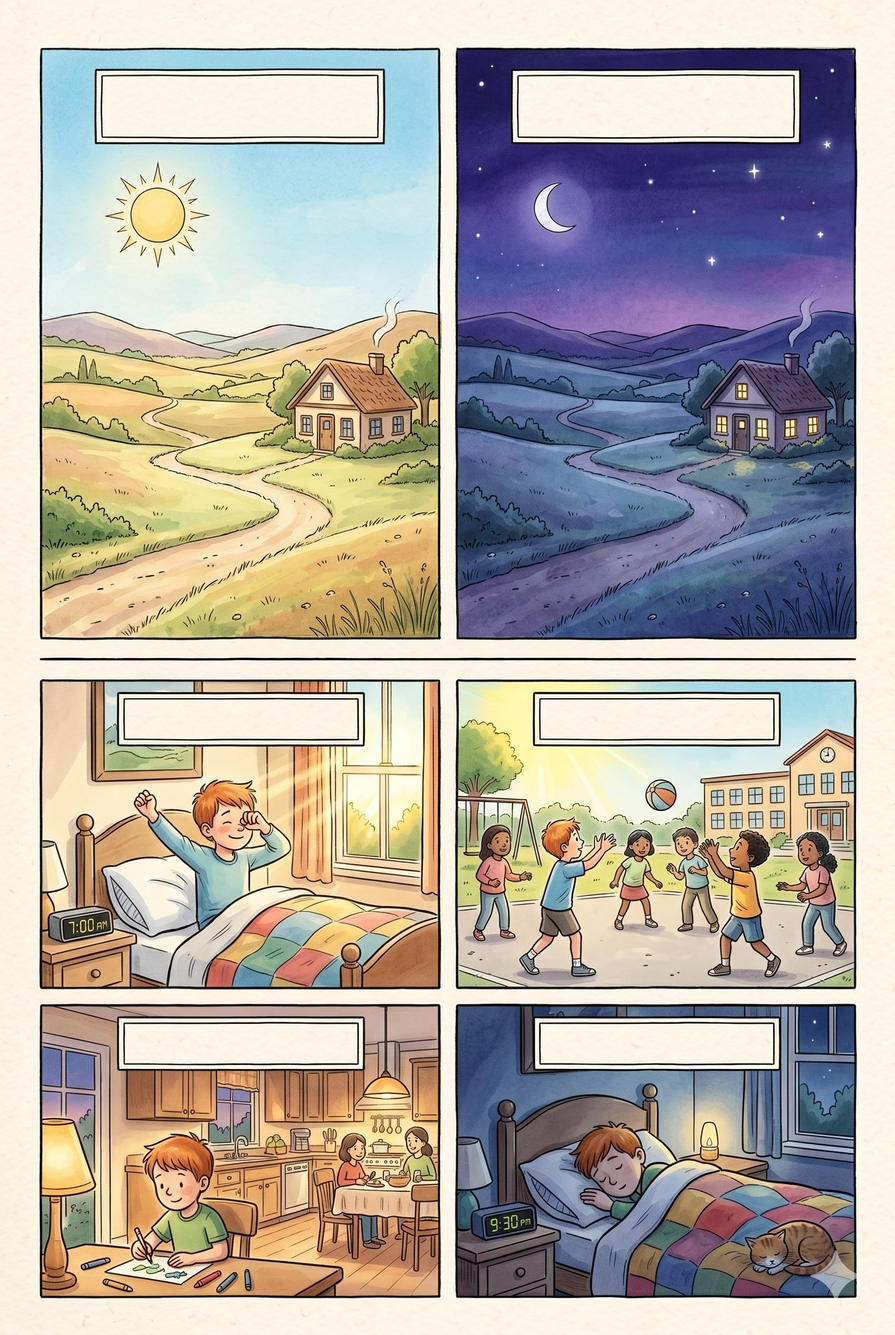
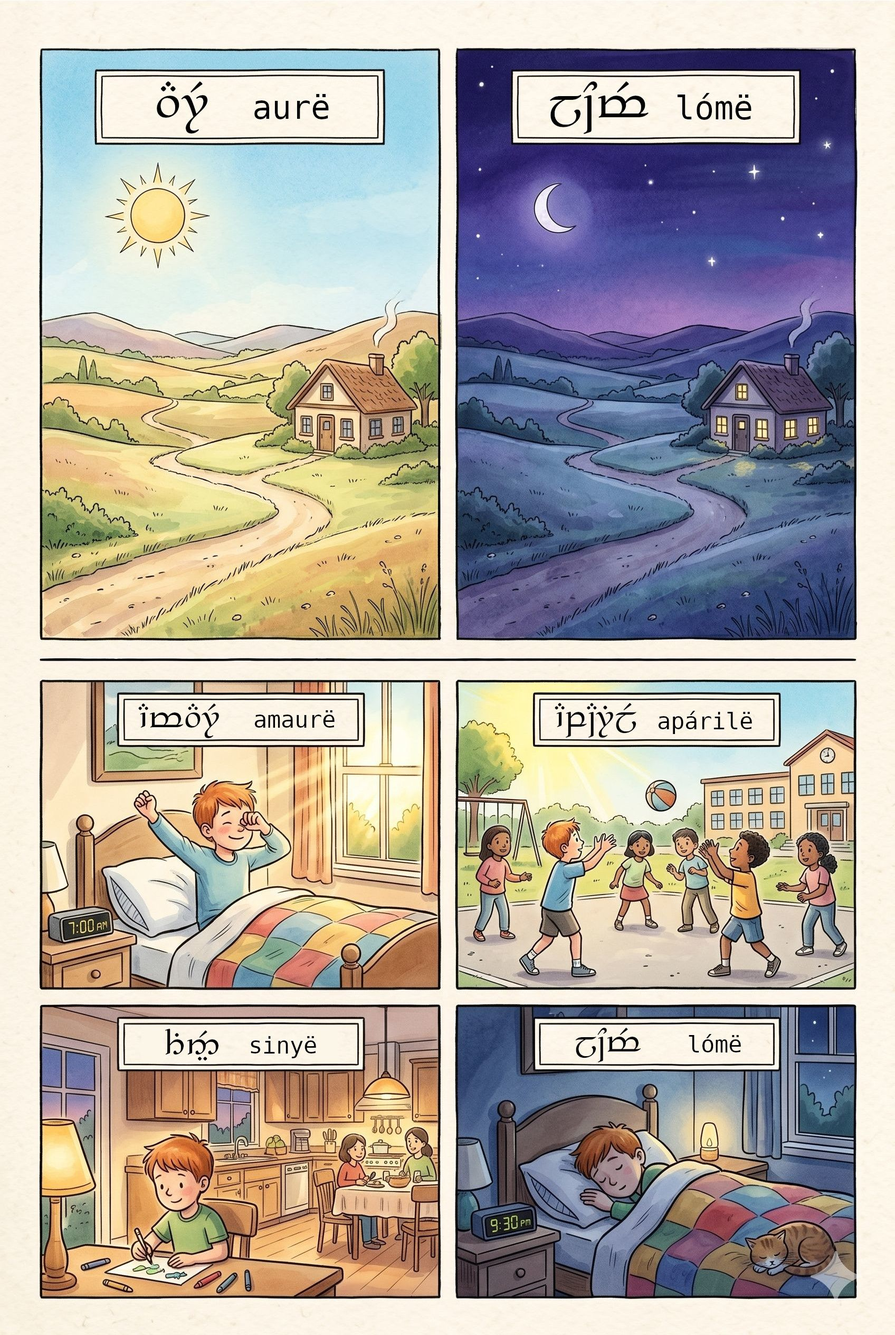
Deploy preview for PR 36 🛫

diff --git a/pr-preview/pr-36/index.html b/pr-preview/pr-36/index.html
@@ -106,7 +106,7 @@ ul.task-list li input[type="checkbox"] {
     <div class="sidebar-title mb-0 py-0">
       <a href="./">Ma Quetilye Quenya?</a> 
         <div class="sidebar-tools-main">
-    <a href="https://ma-quetelye-quenya.tolkien.lu/pt/" title="Português" class="quarto-navigation-tool px-1" aria-label="Português"><i class="bi bi-translate"></i></a>
+    <a href="https://ma-quetilye-quenya.tolkien.lu/pt/" title="Português" class="quarto-navigation-tool px-1" aria-label="Português"><i class="bi bi-translate"></i></a>
 </div>
     </div>
       </div>
@@ -233,14 +233,14 @@ ul.task-list li input[type="checkbox"] {
 
 
 <!--
-SPDX-FileCopyrightText: 2026 Bruno Pacheco (https://bruno.pacheco.lu|brunopacheco1@yahoo.com)
+SPDX-FileCopyrightText: 2026 Bruno Pacheco (https://bruno.pacheco.lu)
 
 SPDX-License-Identifier: CC-BY-4.0
 -->
 <section id="introduction" class="level1 unnumbered">
 <h1 class="unnumbered">Introduction</h1>
 <!--
-SPDX-FileCopyrightText: 2026 Bruno Pacheco (https://bruno.pacheco.lu|brunopacheco1@yahoo.com)
+SPDX-FileCopyrightText: 2026 Bruno Pacheco (https://bruno.pacheco.lu)
 
 SPDX-License-Identifier: CC-BY-4.0
 -->

diff --git a/pr-preview/pr-36/pt/index.html b/pr-preview/pr-36/pt/index.html
@@ -106,7 +106,7 @@ ul.task-list li input[type="checkbox"] {
     <div class="sidebar-title mb-0 py-0">
       <a href="./">Ma Quetilye Quenya?</a> 
         <div class="sidebar-tools-main">
-    <a href="https://ma-quetelye-quenya.tolkien.lu/" title="English" class="quarto-navigation-tool px-1" aria-label="English"><i class="bi bi-translate"></i></a>
+    <a href="https://ma-quetilye-quenya.tolkien.lu/" title="English" class="quarto-navigation-tool px-1" aria-label="English"><i class="bi bi-translate"></i></a>
 </div>
     </div>
       </div>
@@ -233,14 +233,14 @@ ul.task-list li input[type="checkbox"] {
 
 
 <!--
-SPDX-FileCopyrightText: 2026 Bruno Pacheco (https://bruno.pacheco.lu|brunopacheco1@yahoo.com)
+SPDX-FileCopyrightText: 2026 Bruno Pacheco (https://bruno.pacheco.lu)
 
 SPDX-License-Identifier: CC-BY-4.0
 -->
 <section id="introdução" class="level1 unnumbered">
 <h1 class="unnumbered">Introdução</h1>
 <!--
-SPDX-FileCopyrightText: 2026 Bruno Pacheco (https://bruno.pacheco.lu|brunopacheco1@yahoo.com)
+SPDX-FileCopyrightText: 2026 Bruno Pacheco (https://bruno.pacheco.lu)
 
 SPDX-License-Identifier: CC-BY-4.0
 -->

diff --git a/pr-preview/pr-36/docs/en/toc.html b/pr-preview/pr-36/docs/en/toc.html
@@ -105,7 +105,7 @@ ul.task-list li input[type="checkbox"] {
     <div class="sidebar-title mb-0 py-0">
       <a href="../../">Ma Quetilye Quenya?</a> 
         <div class="sidebar-tools-main">
-    <a href="https://ma-quetelye-quenya.tolkien.lu/pt/" title="Português" class="quarto-navigation-tool px-1" aria-label="Português"><i class="bi bi-translate"></i></a>
+    <a href="https://ma-quetilye-quenya.tolkien.lu/pt/" title="Português" class="quarto-navigation-tool px-1" aria-label="Português"><i class="bi bi-translate"></i></a>
 </div>
     </div>
       </div>
@@ -207,7 +207,7 @@ ul.task-list li input[type="checkbox"] {
 
 
 <!--
-SPDX-FileCopyrightText: 2026 Bruno Pacheco (https://bruno.pacheco.lu|brunopacheco1@yahoo.com)
+SPDX-FileCopyrightText: 2026 Bruno Pacheco (https://bruno.pacheco.lu)
 
 SPDX-License-Identifier: CC-BY-4.0
 -->

diff --git a/pr-preview/pr-36/docs/cariquettar.html b/pr-preview/pr-36/docs/cariquettar.html
@@ -104,7 +104,7 @@ ul.task-list li input[type="checkbox"] {
     <div class="sidebar-title mb-0 py-0">
       <a href="../">Ma Quetilye Quenya?</a> 
         <div class="sidebar-tools-main">
-    <a href="https://ma-quetelye-quenya.tolkien.lu/pt/" title="Português" class="quarto-navigation-tool px-1" aria-label="Português"><i class="bi bi-translate"></i></a>
+    <a href="https://ma-quetilye-quenya.tolkien.lu/pt/" title="Português" class="quarto-navigation-tool px-1" aria-label="Português"><i class="bi bi-translate"></i></a>
 </div>
     </div>
       </div>
@@ -206,7 +206,7 @@ ul.task-list li input[type="checkbox"] {
 
 
 <!--
-SPDX-FileCopyrightText: 2026 Bruno Pacheco (https://bruno.pacheco.lu|brunopacheco1@yahoo.com)
+SPDX-FileCopyrightText: 2026 Bruno Pacheco (https://bruno.pacheco.lu)
 
 SPDX-License-Identifier: CC-BY-4.0
 -->

diff --git a/pr-preview/pr-36/docs/parande_1.html b/pr-preview/pr-36/docs/parande_1.html
@@ -105,7 +105,7 @@ ul.task-list li input[type="checkbox"] {
     <div class="sidebar-title mb-0 py-0">
       <a href="../">Ma Quetilye Quenya?</a> 
         <div class="sidebar-tools-main">
-    <a href="https://ma-quetelye-quenya.tolkien.lu/pt/" title="Português" class="quarto-navigation-tool px-1" aria-label="Português"><i class="bi bi-translate"></i></a>
+    <a href="https://ma-quetilye-quenya.tolkien.lu/pt/" title="Português" class="quarto-navigation-tool px-1" aria-label="Português"><i class="bi bi-translate"></i></a>
 </div>
     </div>
       </div>
@@ -238,7 +238,7 @@ ul.task-list li input[type="checkbox"] {
 
 
 <!--
-SPDX-FileCopyrightText: 2026 Bruno Pacheco (https://bruno.pacheco.lu|brunopacheco1@yahoo.com)
+SPDX-FileCopyrightText: 2026 Bruno Pacheco (https://bruno.pacheco.lu)
 
 SPDX-License-Identifier: CC-BY-4.0
 -->

diff --git a/pr-preview/pr-36/docs/parande_2.html b/pr-preview/pr-36/docs/parande_2.html
@@ -105,7 +105,7 @@ ul.task-list li input[type="checkbox"] {
     <div class="sidebar-title mb-0 py-0">
       <a href="../">Ma Quetilye Quenya?</a> 
         <div class="sidebar-tools-main">
-    <a href="https://ma-quetelye-quenya.tolkien.lu/pt/" title="Português" class="quarto-navigation-tool px-1" aria-label="Português"><i class="bi bi-translate"></i></a>
+    <a href="https://ma-quetilye-quenya.tolkien.lu/pt/" title="Português" class="quarto-navigation-tool px-1" aria-label="Português"><i class="bi bi-translate"></i></a>
 </div>
     </div>
       </div>
@@ -207,7 +207,7 @@ ul.task-list li input[type="checkbox"] {
 
 
 <!--
-SPDX-FileCopyrightText: 2026 Bruno Pacheco (https://bruno.pacheco.lu|brunopacheco1@yahoo.com)
+SPDX-FileCopyrightText: 2026 Bruno Pacheco (https://bruno.pacheco.lu)
 
 SPDX-License-Identifier: CC-BY-4.0
 -->

diff --git a/pr-preview/pr-36/docs/parande_3.html b/pr-preview/pr-36/docs/parande_3.html
@@ -105,7 +105,7 @@ ul.task-list li input[type="checkbox"] {
     <div class="sidebar-title mb-0 py-0">
       <a href="../">Ma Quetilye Quenya?</a> 
         <div class="sidebar-tools-main">
-    <a href="https://ma-quetelye-quenya.tolkien.lu/pt/" title="Português" class="quarto-navigation-tool px-1" aria-label="Português"><i class="bi bi-translate"></i></a>
+    <a href="https://ma-quetilye-quenya.tolkien.lu/pt/" title="Português" class="quarto-navigation-tool px-1" aria-label="Português"><i class="bi bi-translate"></i></a>
 </div>
     </div>
       </div>
@@ -207,7 +207,7 @@ ul.task-list li input[type="checkbox"] {
 
 
 <!--
-SPDX-FileCopyrightText: 2026 Bruno Pacheco (https://bruno.pacheco.lu|brunopacheco1@yahoo.com)
+SPDX-FileCopyrightText: 2026 Bruno Pacheco (https://bruno.pacheco.lu)
 
 SPDX-License-Identifier: CC-BY-4.0
 -->

diff --git a/pr-preview/pr-36/docs/parande_4.html b/pr-preview/pr-36/docs/parande_4.html
@@ -105,7 +105,7 @@ ul.task-list li input[type="checkbox"] {
     <div class="sidebar-title mb-0 py-0">
       <a href="../">Ma Quetilye Quenya?</a> 
         <div class="sidebar-tools-main">
-    <a href="https://ma-quetelye-quenya.tolkien.lu/pt/" title="Português" class="quarto-navigation-tool px-1" aria-label="Português"><i class="bi bi-translate"></i></a>
+    <a href="https://ma-quetilye-quenya.tolkien.lu/pt/" title="Português" class="quarto-navigation-tool px-1" aria-label="Português"><i class="bi bi-translate"></i></a>
 </div>
     </div>
       </div>
@@ -207,7 +207,7 @@ ul.task-list li input[type="checkbox"] {
 
 
 <!--
-SPDX-FileCopyrightText: 2026 Bruno Pacheco (https://bruno.pacheco.lu|brunopacheco1@yahoo.com)
+SPDX-FileCopyrightText: 2026 Bruno Pacheco (https://bruno.pacheco.lu)
 
 SPDX-License-Identifier: CC-BY-4.0
 -->

diff --git a/pr-preview/pr-36/docs/parande_5.html b/pr-preview/pr-36/docs/parande_5.html
@@ -105,7 +105,7 @@ ul.task-list li input[type="checkbox"] {
     <div class="sidebar-title mb-0 py-0">
       <a href="../">Ma Quetilye Quenya?</a> 
         <div class="sidebar-tools-main">
-    <a href="https://ma-quetelye-quenya.tolkien.lu/pt/" title="Português" class="quarto-navigation-tool px-1" aria-label="Português"><i class="bi bi-translate"></i></a>
+    <a href="https://ma-quetilye-quenya.tolkien.lu/pt/" title="Português" class="quarto-navigation-tool px-1" aria-label="Português"><i class="bi bi-translate"></i></a>
 </div>
     </div>
       </div>
@@ -207,7 +207,7 @@ ul.task-list li input[type="checkbox"] {
 
 
 <!--
-SPDX-FileCopyrightText: 2026 Bruno Pacheco (https://bruno.pacheco.lu|brunopacheco1@yahoo.com)
+SPDX-FileCopyrightText: 2026 Bruno Pacheco (https://bruno.pacheco.lu)
 
 SPDX-License-Identifier: CC-BY-4.0
 -->

diff --git a/pr-preview/pr-36/docs/parande_6.html b/pr-preview/pr-36/docs/parande_6.html
@@ -105,7 +105,7 @@ ul.task-list li input[type="checkbox"] {
     <div class="sidebar-title mb-0 py-0">
       <a href="../">Ma Quetilye Quenya?</a> 
         <div class="sidebar-tools-main">
-    <a href="https://ma-quetelye-quenya.tolkien.lu/pt/" title="Português" class="quarto-navigation-tool px-1" aria-label="Português"><i class="bi bi-translate"></i></a>
+    <a href="https://ma-quetilye-quenya.tolkien.lu/pt/" title="Português" class="quarto-navigation-tool px-1" aria-label="Português"><i class="bi bi-translate"></i></a>
 </div>
     </div>
       </div>
@@ -207,7 +207,7 @@ ul.task-list li input[type="checkbox"] {
 
 
 <!--
-SPDX-FileCopyrightText: 2026 Bruno Pacheco (https://bruno.pacheco.lu|brunopacheco1@yahoo.com)
+SPDX-FileCopyrightText: 2026 Bruno Pacheco (https://bruno.pacheco.lu)
 
 SPDX-License-Identifier: CC-BY-4.0
 -->

diff --git a/pr-preview/pr-36/pt/docs/pt/toc.html b/pr-preview/pr-36/pt/docs/pt/toc.html
@@ -105,7 +105,7 @@ ul.task-list li input[type="checkbox"] {
     <div class="sidebar-title mb-0 py-0">
       <a href="../../">Ma Quetilye Quenya?</a> 
         <div class="sidebar-tools-main">
-    <a href="https://ma-quetelye-quenya.tolkien.lu/" title="English" class="quarto-navigation-tool px-1" aria-label="English"><i class="bi bi-translate"></i></a>
+    <a href="https://ma-quetilye-quenya.tolkien.lu/" title="English" class="quarto-navigation-tool px-1" aria-label="English"><i class="bi bi-translate"></i></a>
 </div>
     </div>
       </div>
@@ -207,7 +207,7 @@ ul.task-list li input[type="checkbox"] {
 
 
 <!--
-SPDX-FileCopyrightText: 2026 Bruno Pacheco (https://bruno.pacheco.lu|brunopacheco1@yahoo.com)
+SPDX-FileCopyrightText: 2026 Bruno Pacheco (https://bruno.pacheco.lu)
 
 SPDX-License-Identifier: CC-BY-4.0
 -->

diff --git a/pr-preview/pr-36/pt/docs/cariquettar.html b/pr-preview/pr-36/pt/docs/cariquettar.html
@@ -104,7 +104,7 @@ ul.task-list li input[type="checkbox"] {
     <div class="sidebar-title mb-0 py-0">
       <a href="../">Ma Quetilye Quenya?</a> 
         <div class="sidebar-tools-main">
-    <a href="https://ma-quetelye-quenya.tolkien.lu/" title="English" class="quarto-navigation-tool px-1" aria-label="English"><i class="bi bi-translate"></i></a>
+    <a href="https://ma-quetilye-quenya.tolkien.lu/" title="English" class="quarto-navigation-tool px-1" aria-label="English"><i class="bi bi-translate"></i></a>
 </div>
     </div>
       </div>
@@ -206,7 +206,7 @@ ul.task-list li input[type="checkbox"] {
 
 
 <!--
-SPDX-FileCopyrightText: 2026 Bruno Pacheco (https://bruno.pacheco.lu|brunopacheco1@yahoo.com)
+SPDX-FileCopyrightText: 2026 Bruno Pacheco (https://bruno.pacheco.lu)
 
 SPDX-License-Identifier: CC-BY-4.0
 -->
